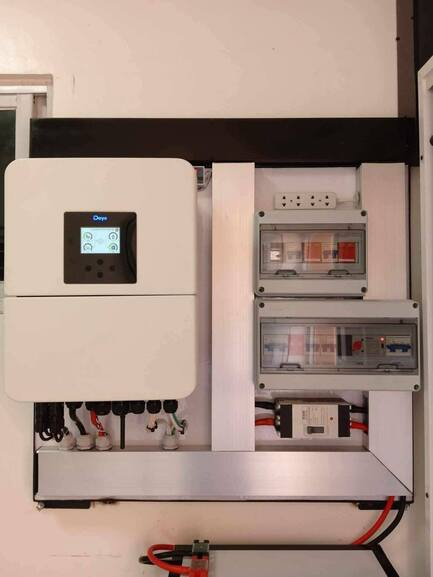
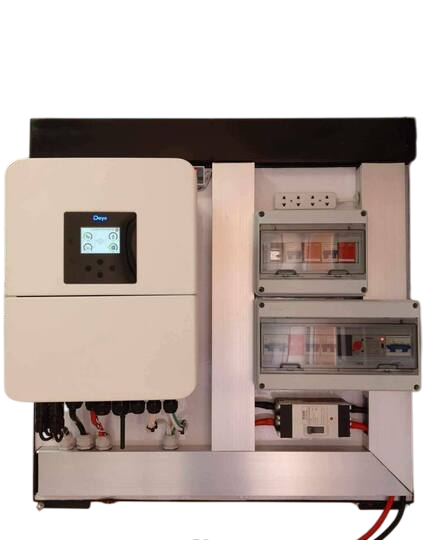
Added images in Product Page

diff --git a/src/pages/ProductsPage.tsx b/src/pages/ProductsPage.tsx
@@ -96,7 +96,7 @@ const ProductsPage: React.FC = () => {
     {
       id: "inverter-4",
       icon: <Zap className="h-10 w-10 text-primary-500" />,
-      image: "/images/inverter-4.png",
+      image: "/images/Deye-12kW.png",
       title: "12kW Deye Hybrid Inverter",
       brand: "Deye",
       warranty: "5 Years Warranty",
